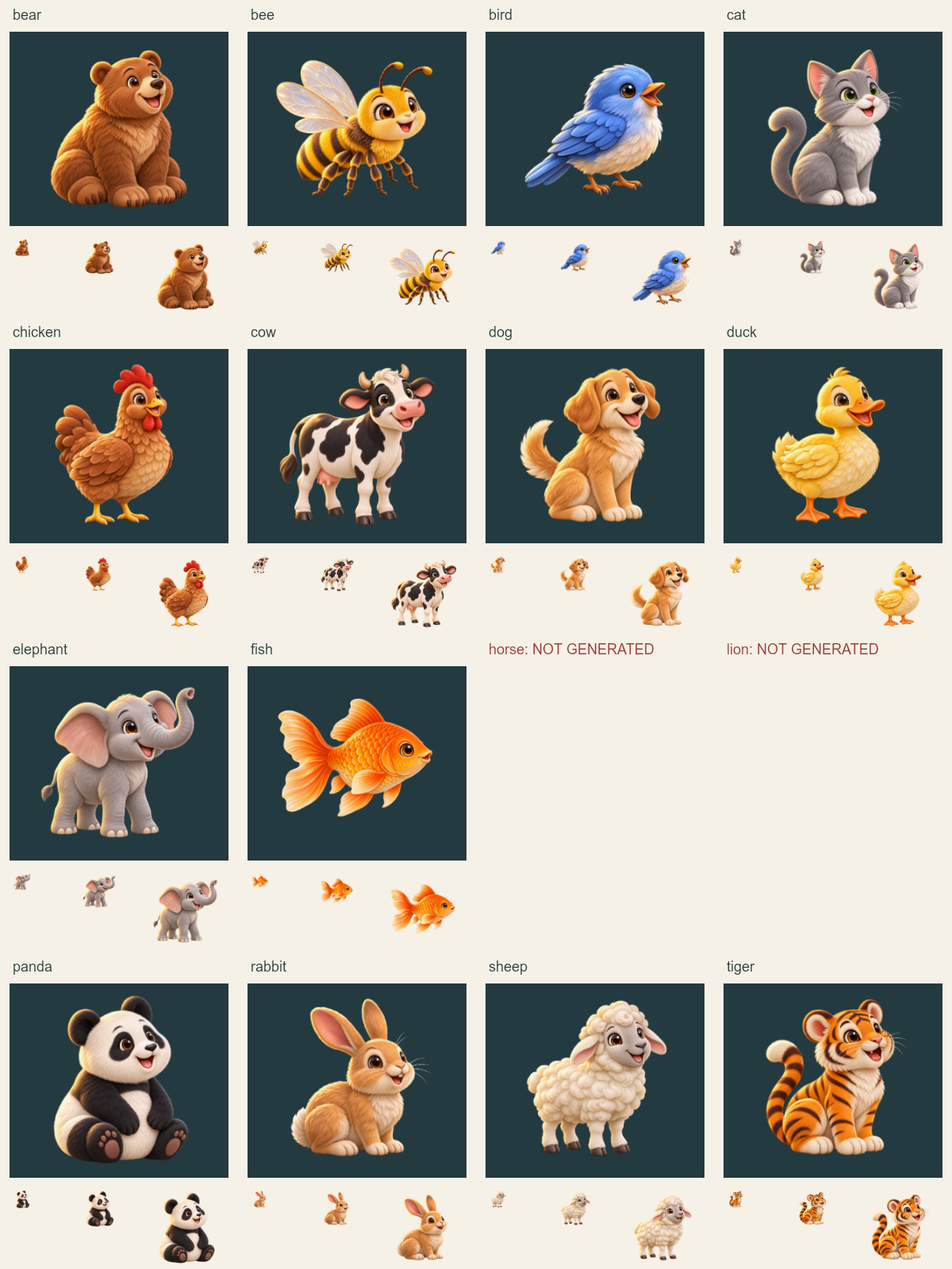
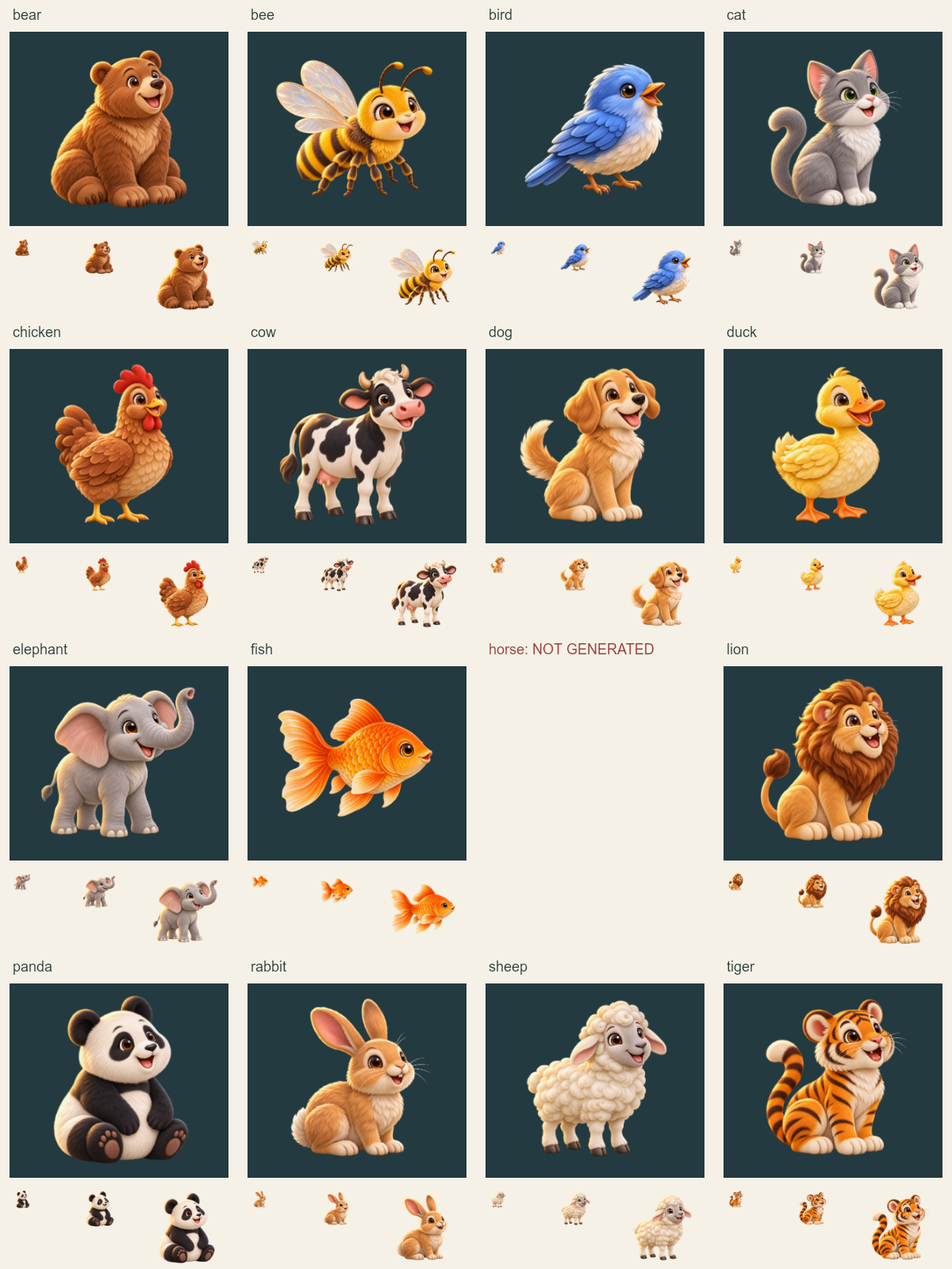
art: add lion display candidate and update animal review progress

Changed region(s): [[0.74, 0.5, 1.0, 0.75]]

diff --git a/docs/visual-audit/animals/review.html b/docs/visual-audit/animals/review.html
@@ -1,1 +1,1 @@
-<!doctype html><html lang="zh-CN"><meta charset="utf-8"><meta name="viewport" content="width=device-width,initial-scale=1"><title>动物素材进度审查</title><style>body{margin:24px;background:#f6f1e7;color:#263d38;font:16px system-ui}main{display:grid;grid-template-columns:repeat(auto-fit,minmax(min(100%,360px),1fr));gap:20px}article{background:white;padding:18px;border-radius:16px}.pair{display:flex}.pair img{width:50%;object-fit:contain;background:#fff5de}.pair .dark{background:#233a40}.sizes{display:flex;flex-wrap:wrap;align-items:end}figure{margin:10px}figcaption,p{font-size:13px;line-height:1.7}</style><h1>动物素材 · 14/16</h1><p>尚缺：horse、lion（尚无可用母版，具体状态见generation-status.json）。复用兔子与蓝鸟展示样张，其余逐张生成。当前仅学习展示母版与尺寸候选；战斗形态、拆分部件和枢轴另行制作核验。未替换游戏入口，整套视觉、实际场景及设备验收仍待完成。</p><main><article><h2>bear · 熊</h2><div class="pair"><img src="variants/bear-256.png"><img class="dark" src="variants/bear-256.png"></div><div class="sizes"><figure><img src="variants/bear-64.png" width="24"><figcaption>64px · 6.0 KiB</figcaption></figure><figure><img src="variants/bear-128.png" width="24"><figcaption>128px · 20.6 KiB</figcaption></figure><figure><img src="variants/bear-256.png" width="146"><figcaption>256px · 70.9 KiB</figcaption></figure><figure><img src="variants/bear-512.png" width="146"><figcaption>512px · 248.5 KiB</figcaption></figure></div><p>小图显示24 CSS px，大图146 CSS px。各设备DPR/Boss放大与动态场景仍待验证。</p></article><article><h2>bee · 蜜蜂</h2><div class="pair"><img src="variants/bee-256.png"><img class="dark" src="variants/bee-256.png"></div><div class="sizes"><figure><img src="variants/bee-64.png" width="24"><figcaption>64px · 6.4 KiB</figcaption></figure><figure><img src="variants/bee-128.png" width="24"><figcaption>128px · 20.4 KiB</figcaption></figure><figure><img src="variants/bee-256.png" width="146"><figcaption>256px · 68.1 KiB</figcaption></figure><figure><img src="variants/bee-512.png" width="146"><figcaption>512px · 232.0 KiB</figcaption></figure></div><p>小图显示24 CSS px，大图146 CSS px。各设备DPR/Boss放大与动态场景仍待验证。</p></article><article><h2>bird · 鸟</h2><div class="pair"><img src="variants/bird-256.png"><img class="dark" src="variants/bird-256.png"></div><div class="sizes"><figure><img src="variants/bird-64.png" width="24"><figcaption>64px · 4.9 KiB</figcaption></figure><figure><img src="variants/bird-128.png" width="24"><figcaption>128px · 16.1 KiB</figcaption></figure><figure><img src="variants/bird-256.png" width="146"><figcaption>256px · 55.1 KiB</figcaption></figure><figure><img src="variants/bird-512.png" width="146"><figcaption>512px · 186.1 KiB</figcaption></figure></div><p>小图显示24 CSS px，大图146 CSS px。各设备DPR/Boss放大与动态场景仍待验证。</p></article><article><h2>cat · 猫</h2><div class="pair"><img src="variants/cat-256.png"><img class="dark" src="variants/cat-256.png"></div><div class="sizes"><figure><img src="variants/cat-64.png" width="24"><figcaption>64px · 5.9 KiB</figcaption></figure><figure><img src="variants/cat-128.png" width="24"><figcaption>128px · 18.9 KiB</figcaption></figure><figure><img src="variants/cat-256.png" width="146"><figcaption>256px · 63.3 KiB</figcaption></figure><figure><img src="variants/cat-512.png" width="146"><figcaption>512px · 217.4 KiB</figcaption></figure></div><p>小图显示24 CSS px，大图146 CSS px。各设备DPR/Boss放大与动态场景仍待验证。</p></article><article><h2>chicken · 鸡</h2><div class="pair"><img src="variants/chicken-256.png"><img class="dark" src="variants/chicken-256.png"></div><div class="sizes"><figure><img src="variants/chicken-64.png" width="24"><figcaption>64px · 5.3 KiB</figcaption></figure><figure><img src="variants/chicken-128.png" width="24"><figcaption>128px · 17.2 KiB</figcaption></figure><figure><img src="variants/chicken-256.png" width="146"><figcaption>256px · 57.2 KiB</figcaption></figure><figure><img src="variants/chicken-512.png" width="146"><figcaption>512px · 195.2 KiB</figcaption></figure></div><p>小图显示24 CSS px，大图146 CSS px。各设备DPR/Boss放大与动态场景仍待验证。</p></article><article><h2>cow · 牛</h2><div class="pair"><img src="variants/cow-256.png"><img class="dark" src="variants/cow-256.png"></div><div class="sizes"><figure><img src="variants/cow-64.png" width="24"><figcaption>64px · 6.7 KiB</figcaption></figure><figure><img src="variants/cow-128.png" width="24"><figcaption>128px · 20.9 KiB</figcaption></figure><figure><img src="variants/cow-256.png" width="146"><figcaption>256px · 66.3 KiB</figcaption></figure><figure><img src="variants/cow-512.png" width="146"><figcaption>512px · 220.7 KiB</figcaption></figure></div><p>小图显示24 CSS px，大图146 CSS px。各设备DPR/Boss放大与动态场景仍待验证。</p></article><article><h2>dog · 狗</h2><div class="pair"><img src="variants/dog-256.png"><img class="dark" src="variants/dog-256.png"></div><div class="sizes"><figure><img src="variants/dog-64.png" width="24"><figcaption>64px · 5.9 KiB</figcaption></figure><figure><img src="variants/dog-128.png" width="24"><figcaption>128px · 19.6 KiB</figcaption></figure><figure><img src="variants/dog-256.png" width="146"><figcaption>256px · 66.2 KiB</figcaption></figure><figure><img src="variants/dog-512.png" width="146"><figcaption>512px · 226.0 KiB</figcaption></figure></div><p>小图显示24 CSS px，大图146 CSS px。各设备DPR/Boss放大与动态场景仍待验证。</p></article><article><h2>duck · 鸭</h2><div class="pair"><img src="variants/duck-256.png"><img class="dark" src="variants/duck-256.png"></div><div class="sizes"><figure><img src="variants/duck-64.png" width="24"><figcaption>64px · 4.7 KiB</figcaption></figure><figure><img src="variants/duck-128.png" width="24"><figcaption>128px · 14.9 KiB</figcaption></figure><figure><img src="variants/duck-256.png" width="146"><figcaption>256px · 49.0 KiB</figcaption></figure><figure><img src="variants/duck-512.png" width="146"><figcaption>512px · 164.7 KiB</figcaption></figure></div><p>小图显示24 CSS px，大图146 CSS px。各设备DPR/Boss放大与动态场景仍待验证。</p></article><article><h2>elephant · 大象</h2><div class="pair"><img src="variants/elephant-256.png"><img class="dark" src="variants/elephant-256.png"></div><div class="sizes"><figure><img src="variants/elephant-64.png" width="24"><figcaption>64px · 6.3 KiB</figcaption></figure><figure><img src="variants/elephant-128.png" width="24"><figcaption>128px · 20.4 KiB</figcaption></figure><figure><img src="variants/elephant-256.png" width="146"><figcaption>256px · 68.3 KiB</figcaption></figure><figure><img src="variants/elephant-512.png" width="146"><figcaption>512px · 235.0 KiB</figcaption></figure></div><p>小图显示24 CSS px，大图146 CSS px。各设备DPR/Boss放大与动态场景仍待验证。</p></article><article><h2>fish · 鱼</h2><div class="pair"><img src="variants/fish-256.png"><img class="dark" src="variants/fish-256.png"></div><div class="sizes"><figure><img src="variants/fish-64.png" width="24"><figcaption>64px · 5.1 KiB</figcaption></figure><figure><img src="variants/fish-128.png" width="24"><figcaption>128px · 16.5 KiB</figcaption></figure><figure><img src="variants/fish-256.png" width="146"><figcaption>256px · 55.7 KiB</figcaption></figure><figure><img src="variants/fish-512.png" width="146"><figcaption>512px · 188.0 KiB</figcaption></figure></div><p>小图显示24 CSS px，大图146 CSS px。各设备DPR/Boss放大与动态场景仍待验证。</p></article><article><h2>panda · 熊猫</h2><div class="pair"><img src="variants/panda-256.png"><img class="dark" src="variants/panda-256.png"></div><div class="sizes"><figure><img src="variants/panda-64.png" width="24"><figcaption>64px · 6.6 KiB</figcaption></figure><figure><img src="variants/panda-128.png" width="24"><figcaption>128px · 20.9 KiB</figcaption></figure><figure><img src="variants/panda-256.png" width="146"><figcaption>256px · 71.0 KiB</figcaption></figure><figure><img src="variants/panda-512.png" width="146"><figcaption>512px · 249.4 KiB</figcaption></figure></div><p>小图显示24 CSS px，大图146 CSS px。各设备DPR/Boss放大与动态场景仍待验证。</p></article><article><h2>rabbit · 兔子</h2><div class="pair"><img src="variants/rabbit-256.png"><img class="dark" src="variants/rabbit-256.png"></div><div class="sizes"><figure><img src="variants/rabbit-64.png" width="24"><figcaption>64px · 5.6 KiB</figcaption></figure><figure><img src="variants/rabbit-128.png" width="24"><figcaption>128px · 18.4 KiB</figcaption></figure><figure><img src="variants/rabbit-256.png" width="146"><figcaption>256px · 62.9 KiB</figcaption></figure><figure><img src="variants/rabbit-512.png" width="146"><figcaption>512px · 216.1 KiB</figcaption></figure></div><p>小图显示24 CSS px，大图146 CSS px。各设备DPR/Boss放大与动态场景仍待验证。</p></article><article><h2>sheep · 羊</h2><div class="pair"><img src="variants/sheep-256.png"><img class="dark" src="variants/sheep-256.png"></div><div class="sizes"><figure><img src="variants/sheep-64.png" width="24"><figcaption>64px · 5.8 KiB</figcaption></figure><figure><img src="variants/sheep-128.png" width="24"><figcaption>128px · 18.6 KiB</figcaption></figure><figure><img src="variants/sheep-256.png" width="146"><figcaption>256px · 61.0 KiB</figcaption></figure><figure><img src="variants/sheep-512.png" width="146"><figcaption>512px · 206.4 KiB</figcaption></figure></div><p>小图显示24 CSS px，大图146 CSS px。各设备DPR/Boss放大与动态场景仍待验证。</p></article><article><h2>tiger · 老虎</h2><div class="pair"><img src="variants/tiger-256.png"><img class="dark" src="variants/tiger-256.png"></div><div class="sizes"><figure><img src="variants/tiger-64.png" width="24"><figcaption>64px · 6.9 KiB</figcaption></figure><figure><img src="variants/tiger-128.png" width="24"><figcaption>128px · 22.5 KiB</figcaption></figure><figure><img src="variants/tiger-256.png" width="146"><figcaption>256px · 76.7 KiB</figcaption></figure><figure><img src="variants/tiger-512.png" width="146"><figcaption>512px · 272.3 KiB</figcaption></figure></div><p>小图显示24 CSS px，大图146 CSS px。各设备DPR/Boss放大与动态场景仍待验证。</p></article></main></html>
+<!doctype html><html lang="zh-CN"><meta charset="utf-8"><meta name="viewport" content="width=device-width,initial-scale=1"><title>动物素材进度审查</title><style>body{margin:24px;background:#f6f1e7;color:#263d38;font:16px system-ui}main{display:grid;grid-template-columns:repeat(auto-fit,minmax(min(100%,360px),1fr));gap:20px}article{background:white;padding:18px;border-radius:16px}.pair{display:flex}.pair img{width:50%;object-fit:contain;background:#fff5de}.pair .dark{background:#233a40}.sizes{display:flex;flex-wrap:wrap;align-items:end}figure{margin:10px}figcaption,p{font-size:13px;line-height:1.7}</style><h1>动物素材 · 15/16</h1><p>尚缺：horse（尚无可用母版，具体状态见generation-status.json）。复用兔子与蓝鸟展示样张，其余逐张生成。当前仅学习展示母版与尺寸候选；战斗形态、拆分部件和枢轴另行制作核验。未替换游戏入口，整套视觉、实际场景及设备验收仍待完成。</p><main><article><h2>bear · 熊</h2><div class="pair"><img src="variants/bear-256.png"><img class="dark" src="variants/bear-256.png"></div><div class="sizes"><figure><img src="variants/bear-64.png" width="24"><figcaption>64px · 6.0 KiB</figcaption></figure><figure><img src="variants/bear-128.png" width="24"><figcaption>128px · 20.6 KiB</figcaption></figure><figure><img src="variants/bear-256.png" width="146"><figcaption>256px · 70.9 KiB</figcaption></figure><figure><img src="variants/bear-512.png" width="146"><figcaption>512px · 248.5 KiB</figcaption></figure></div><p>小图显示24 CSS px，大图146 CSS px。各设备DPR/Boss放大与动态场景仍待验证。</p></article><article><h2>bee · 蜜蜂</h2><div class="pair"><img src="variants/bee-256.png"><img class="dark" src="variants/bee-256.png"></div><div class="sizes"><figure><img src="variants/bee-64.png" width="24"><figcaption>64px · 6.4 KiB</figcaption></figure><figure><img src="variants/bee-128.png" width="24"><figcaption>128px · 20.4 KiB</figcaption></figure><figure><img src="variants/bee-256.png" width="146"><figcaption>256px · 68.1 KiB</figcaption></figure><figure><img src="variants/bee-512.png" width="146"><figcaption>512px · 232.0 KiB</figcaption></figure></div><p>小图显示24 CSS px，大图146 CSS px。各设备DPR/Boss放大与动态场景仍待验证。</p></article><article><h2>bird · 鸟</h2><div class="pair"><img src="variants/bird-256.png"><img class="dark" src="variants/bird-256.png"></div><div class="sizes"><figure><img src="variants/bird-64.png" width="24"><figcaption>64px · 4.9 KiB</figcaption></figure><figure><img src="variants/bird-128.png" width="24"><figcaption>128px · 16.1 KiB</figcaption></figure><figure><img src="variants/bird-256.png" width="146"><figcaption>256px · 55.1 KiB</figcaption></figure><figure><img src="variants/bird-512.png" width="146"><figcaption>512px · 186.1 KiB</figcaption></figure></div><p>小图显示24 CSS px，大图146 CSS px。各设备DPR/Boss放大与动态场景仍待验证。</p></article><article><h2>cat · 猫</h2><div class="pair"><img src="variants/cat-256.png"><img class="dark" src="variants/cat-256.png"></div><div class="sizes"><figure><img src="variants/cat-64.png" width="24"><figcaption>64px · 5.9 KiB</figcaption></figure><figure><img src="variants/cat-128.png" width="24"><figcaption>128px · 18.9 KiB</figcaption></figure><figure><img src="variants/cat-256.png" width="146"><figcaption>256px · 63.3 KiB</figcaption></figure><figure><img src="variants/cat-512.png" width="146"><figcaption>512px · 217.4 KiB</figcaption></figure></div><p>小图显示24 CSS px，大图146 CSS px。各设备DPR/Boss放大与动态场景仍待验证。</p></article><article><h2>chicken · 鸡</h2><div class="pair"><img src="variants/chicken-256.png"><img class="dark" src="variants/chicken-256.png"></div><div class="sizes"><figure><img src="variants/chicken-64.png" width="24"><figcaption>64px · 5.3 KiB</figcaption></figure><figure><img src="variants/chicken-128.png" width="24"><figcaption>128px · 17.2 KiB</figcaption></figure><figure><img src="variants/chicken-256.png" width="146"><figcaption>256px · 57.2 KiB</figcaption></figure><figure><img src="variants/chicken-512.png" width="146"><figcaption>512px · 195.2 KiB</figcaption></figure></div><p>小图显示24 CSS px，大图146 CSS px。各设备DPR/Boss放大与动态场景仍待验证。</p></article><article><h2>cow · 牛</h2><div class="pair"><img src="variants/cow-256.png"><img class="dark" src="variants/cow-256.png"></div><div class="sizes"><figure><img src="variants/cow-64.png" width="24"><figcaption>64px · 6.7 KiB</figcaption></figure><figure><img src="variants/cow-128.png" width="24"><figcaption>128px · 20.9 KiB</figcaption></figure><figure><img src="variants/cow-256.png" width="146"><figcaption>256px · 66.3 KiB</figcaption></figure><figure><img src="variants/cow-512.png" width="146"><figcaption>512px · 220.7 KiB</figcaption></figure></div><p>小图显示24 CSS px，大图146 CSS px。各设备DPR/Boss放大与动态场景仍待验证。</p></article><article><h2>dog · 狗</h2><div class="pair"><img src="variants/dog-256.png"><img class="dark" src="variants/dog-256.png"></div><div class="sizes"><figure><img src="variants/dog-64.png" width="24"><figcaption>64px · 5.9 KiB</figcaption></figure><figure><img src="variants/dog-128.png" width="24"><figcaption>128px · 19.6 KiB</figcaption></figure><figure><img src="variants/dog-256.png" width="146"><figcaption>256px · 66.2 KiB</figcaption></figure><figure><img src="variants/dog-512.png" width="146"><figcaption>512px · 226.0 KiB</figcaption></figure></div><p>小图显示24 CSS px，大图146 CSS px。各设备DPR/Boss放大与动态场景仍待验证。</p></article><article><h2>duck · 鸭</h2><div class="pair"><img src="variants/duck-256.png"><img class="dark" src="variants/duck-256.png"></div><div class="sizes"><figure><img src="variants/duck-64.png" width="24"><figcaption>64px · 4.7 KiB</figcaption></figure><figure><img src="variants/duck-128.png" width="24"><figcaption>128px · 14.9 KiB</figcaption></figure><figure><img src="variants/duck-256.png" width="146"><figcaption>256px · 49.0 KiB</figcaption></figure><figure><img src="variants/duck-512.png" width="146"><figcaption>512px · 164.7 KiB</figcaption></figure></div><p>小图显示24 CSS px，大图146 CSS px。各设备DPR/Boss放大与动态场景仍待验证。</p></article><article><h2>elephant · 大象</h2><div class="pair"><img src="variants/elephant-256.png"><img class="dark" src="variants/elephant-256.png"></div><div class="sizes"><figure><img src="variants/elephant-64.png" width="24"><figcaption>64px · 6.3 KiB</figcaption></figure><figure><img src="variants/elephant-128.png" width="24"><figcaption>128px · 20.4 KiB</figcaption></figure><figure><img src="variants/elephant-256.png" width="146"><figcaption>256px · 68.3 KiB</figcaption></figure><figure><img src="variants/elephant-512.png" width="146"><figcaption>512px · 235.0 KiB</figcaption></figure></div><p>小图显示24 CSS px，大图146 CSS px。各设备DPR/Boss放大与动态场景仍待验证。</p></article><article><h2>fish · 鱼</h2><div class="pair"><img src="variants/fish-256.png"><img class="dark" src="variants/fish-256.png"></div><div class="sizes"><figure><img src="variants/fish-64.png" width="24"><figcaption>64px · 5.1 KiB</figcaption></figure><figure><img src="variants/fish-128.png" width="24"><figcaption>128px · 16.5 KiB</figcaption></figure><figure><img src="variants/fish-256.png" width="146"><figcaption>256px · 55.7 KiB</figcaption></figure><figure><img src="variants/fish-512.png" width="146"><figcaption>512px · 188.0 KiB</figcaption></figure></div><p>小图显示24 CSS px，大图146 CSS px。各设备DPR/Boss放大与动态场景仍待验证。</p></article><article><h2>lion · 狮子</h2><div class="pair"><img src="variants/lion-256.png"><img class="dark" src="variants/lion-256.png"></div><div class="sizes"><figure><img src="variants/lion-64.png" width="24"><figcaption>64px · 6.8 KiB</figcaption></figure><figure><img src="variants/lion-128.png" width="24"><figcaption>128px · 22.6 KiB</figcaption></figure><figure><img src="variants/lion-256.png" width="146"><figcaption>256px · 76.0 KiB</figcaption></figure><figure><img src="variants/lion-512.png" width="146"><figcaption>512px · 262.6 KiB</figcaption></figure></div><p>小图显示24 CSS px，大图146 CSS px。各设备DPR/Boss放大与动态场景仍待验证。</p></article><article><h2>panda · 熊猫</h2><div class="pair"><img src="variants/panda-256.png"><img class="dark" src="variants/panda-256.png"></div><div class="sizes"><figure><img src="variants/panda-64.png" width="24"><figcaption>64px · 6.6 KiB</figcaption></figure><figure><img src="variants/panda-128.png" width="24"><figcaption>128px · 20.9 KiB</figcaption></figure><figure><img src="variants/panda-256.png" width="146"><figcaption>256px · 71.0 KiB</figcaption></figure><figure><img src="variants/panda-512.png" width="146"><figcaption>512px · 249.4 KiB</figcaption></figure></div><p>小图显示24 CSS px，大图146 CSS px。各设备DPR/Boss放大与动态场景仍待验证。</p></article><article><h2>rabbit · 兔子</h2><div class="pair"><img src="variants/rabbit-256.png"><img class="dark" src="variants/rabbit-256.png"></div><div class="sizes"><figure><img src="variants/rabbit-64.png" width="24"><figcaption>64px · 5.6 KiB</figcaption></figure><figure><img src="variants/rabbit-128.png" width="24"><figcaption>128px · 18.4 KiB</figcaption></figure><figure><img src="variants/rabbit-256.png" width="146"><figcaption>256px · 62.9 KiB</figcaption></figure><figure><img src="variants/rabbit-512.png" width="146"><figcaption>512px · 216.1 KiB</figcaption></figure></div><p>小图显示24 CSS px，大图146 CSS px。各设备DPR/Boss放大与动态场景仍待验证。</p></article><article><h2>sheep · 羊</h2><div class="pair"><img src="variants/sheep-256.png"><img class="dark" src="variants/sheep-256.png"></div><div class="sizes"><figure><img src="variants/sheep-64.png" width="24"><figcaption>64px · 5.8 KiB</figcaption></figure><figure><img src="variants/sheep-128.png" width="24"><figcaption>128px · 18.6 KiB</figcaption></figure><figure><img src="variants/sheep-256.png" width="146"><figcaption>256px · 61.0 KiB</figcaption></figure><figure><img src="variants/sheep-512.png" width="146"><figcaption>512px · 206.4 KiB</figcaption></figure></div><p>小图显示24 CSS px，大图146 CSS px。各设备DPR/Boss放大与动态场景仍待验证。</p></article><article><h2>tiger · 老虎</h2><div class="pair"><img src="variants/tiger-256.png"><img class="dark" src="variants/tiger-256.png"></div><div class="sizes"><figure><img src="variants/tiger-64.png" width="24"><figcaption>64px · 6.9 KiB</figcaption></figure><figure><img src="variants/tiger-128.png" width="24"><figcaption>128px · 22.5 KiB</figcaption></figure><figure><img src="variants/tiger-256.png" width="146"><figcaption>256px · 76.7 KiB</figcaption></figure><figure><img src="variants/tiger-512.png" width="146"><figcaption>512px · 272.3 KiB</figcaption></figure></div><p>小图显示24 CSS px，大图146 CSS px。各设备DPR/Boss放大与动态场景仍待验证。</p></article></main></html>

diff --git a/docs/visual-audit/acceptance.html b/docs/visual-audit/acceptance.html
@@ -3,7 +3,7 @@
 <tr><th scope="row">铁桶Boss、最终Boss<br><a href="https://github.com/zfz193071/word-monster-weapp/issues/92">#92</a></th><td>两类独立造型候选；未接入</td><td><a href="enemies/boss-review.html">轮廓与尺寸</a><br><a href="enemies/boss-review.json">透明与哈希</a></td><td>词标/生命条/预警同时出现、碰撞外观与分层动作、混战及设备验收待完成。</td></tr>
 <tr><th scope="row">六类小兵<br><a href="https://github.com/zfz193071/word-monster-weapp/issues/79">#79</a></th><td>概念方向；正式兵种未制作</td><td><a href="concepts/manifest.json">概念来源</a><br><a href="README.md">现有兵种盘点</a></td><td>依赖#72规则确认及#73契约；不能把概念或旧普通援军当成六类交付。</td></tr>
 <tr><th scope="row">11种水果<br><a href="https://github.com/zfz193071/word-monster-weapp/issues/84">#84</a></th><td>11/11水果256px正式图已接入；44个尺寸候选留档</td><td><a href="fruits/review.html">全词审样</a><br><a href="fruits/scenes/review.html">实际绘制器静态合成</a><br><a href="fruits/README.md">11月9日正式接入记录</a></td><td>动态、微信设备、跨关与完整27词验收未完成；128档仅用于离屏比较。</td></tr>
-<tr><th scope="row">16种动物<br><a href="https://github.com/zfz193071/word-monster-weapp/issues/85">#85</a></th><td>14/16展示图；未接入</td><td><a href="animals/README.md">缺项与生成记录</a><br><a href="animals/review.html">候选审样</a></td><td>缺马、狮子；兔/鸟之外的独立战斗部件、关节与自然动作未完成。</td></tr>
+<tr><th scope="row">16种动物<br><a href="https://github.com/zfz193071/word-monster-weapp/issues/85">#85</a></th><td>15/16展示图；未接入</td><td><a href="animals/README.md">缺项与生成记录</a><br><a href="animals/review.html">候选审样</a></td><td>缺马；兔/鸟之外的独立战斗部件、关节与自然动作未完成。</td></tr>
 <tr><th scope="row">颜色及其他学习类别<br><a href="https://github.com/zfz193071/word-monster-weapp/issues/90">#90</a></th><td>保留现有语义与素材</td><td><a href="inventory.json">逐词路径</a><br><a href="current-assets.html">素材总览</a></td><td>整场协调及实际尺寸核查；未授权批量重做这些类别。</td></tr>
 <tr><th scope="row">技能卡<br><a href="https://github.com/zfz193071/word-monster-weapp/issues/79">#79</a></th><td>现行技能卡保留；新卡未制作</td><td><a href="README.md">技能卡分工</a></td><td>新兵种规则与同尺度审样待确认；基础/进化识别、真实页面冻结背景待验。</td></tr>
 <tr><th scope="row">8关背景与加载图<br><a href="https://github.com/zfz193071/word-monster-weapp/issues/93">#93</a></th><td>八关离屏对照已制作</td><td><a href="scenes/README.md">范围及问题</a><br><a href="scenes/review.html">八关对照</a></td><td>冷/热加载、自然动态、手机/iPad截图与用户视觉确认待完成。</td></tr>

diff --git a/docs/visual-audit/animals/README.md b/docs/visual-audit/animals/README.md
@@ -2,7 +2,7 @@
 
 2026-11-09开始制作。沿用已采用的精致卡通画风，复用兔子、蓝鸟展示样张；其余14种逐张使用内置 image_gen 生成，以兔子为风格参考。准确提示词见 [prompts.json](prompts.json)，复用样张提示词见 `../samples/prompts.json`。
 
-本轮结果：14/16种可审查，缺马、狮子，两者首次及原提示词重试均被图片服务以`moderation_blocked`（输出阶段、`other`）拒绝；狗首次同类失败、原提示词重试成功。未切换CLI或其他服务。原始错误和请求ID见生成记录。
+11月9日结果：14/16种可审查，缺马、狮子，两者首次及原提示词重试均被图片服务以`moderation_blocked`（输出阶段、`other`）拒绝；狗首次同类失败、原提示词重试成功。未切换CLI或其他服务。原始错误和请求ID见生成记录。
 
 鸭子首图带宽幅灰白背景，鱼首图误带哺乳动物鼻口；已用内置图片编辑分别修正，采用`duck-clean.png`与`fish-corrected.png`。原始失败图保留作问题证据，不进入候选；编辑提示词见`refinement-prompts.json`和`fish-refinement-prompt.json`。
 
@@ -34,3 +34,11 @@ WM_CANVAS_MODULE=/tmp/wm-render-tools/node_modules/@napi-rs/canvas node --import
 本批仅学习展示图。兔子和鸟已有独立战斗样张，其他动物的战斗形态、肢体/翅膀拆分、关节枢轴、接缝和遮挡尚未制作验收；不将静态整图作为自然行走/扑翼已完成。#85保持开放，后续#86负责资源预算与分包，#87/#88负责正式接入，#89负责设备及完整视觉验收。
 
 逐词审查重点：猫/虎、熊/熊猫、鸡/鸭保持明显轮廓与配色区别，长耳、长鼻、翅膀、尾巴完整，24/48/96尺寸下物种可辨。批量alpha与边界检查不能替代这些视觉检查，也不代替用户对整套素材的最终确认。
+
+## 2026-11-10 补齐狮子
+
+沿用 `prompts.json#lion` 和兔子风格参考，内置 image_gen 原提示词重试成功，母版保存为 `originals/lion.png`。马沿用 `prompts.json#horse` 重试仍被服务拒绝（output / other，request ID `b2296027-7ea4-4165-97e2-953f6241b6c5`），未切换服务；历史错误保留，最新结果见 generation-status.json。
+
+当前15/16种展示母版、60个64/128/256/512尺寸候选通过脚本透明度、主体边缘及音频映射检查。128档288.3KiB、256档967.6KiB、512档3320.5KiB。已目视检查浅深底总览：狮子的棕色鬃毛和簇状尾端可辨，与条纹虎不同，24px细节明显简化。边缘检查使用alpha>8主体阈值，不等同于全部低alpha残留为零。未改变运行素材，源码包体保持不变。
+
+仅补齐展示候选；马、战斗部件、自然动作、用户视觉确认及设备验收仍未完成，#85保持开放。此前14词预算及#86预算为历史批次，不能作为当前15词总量。
